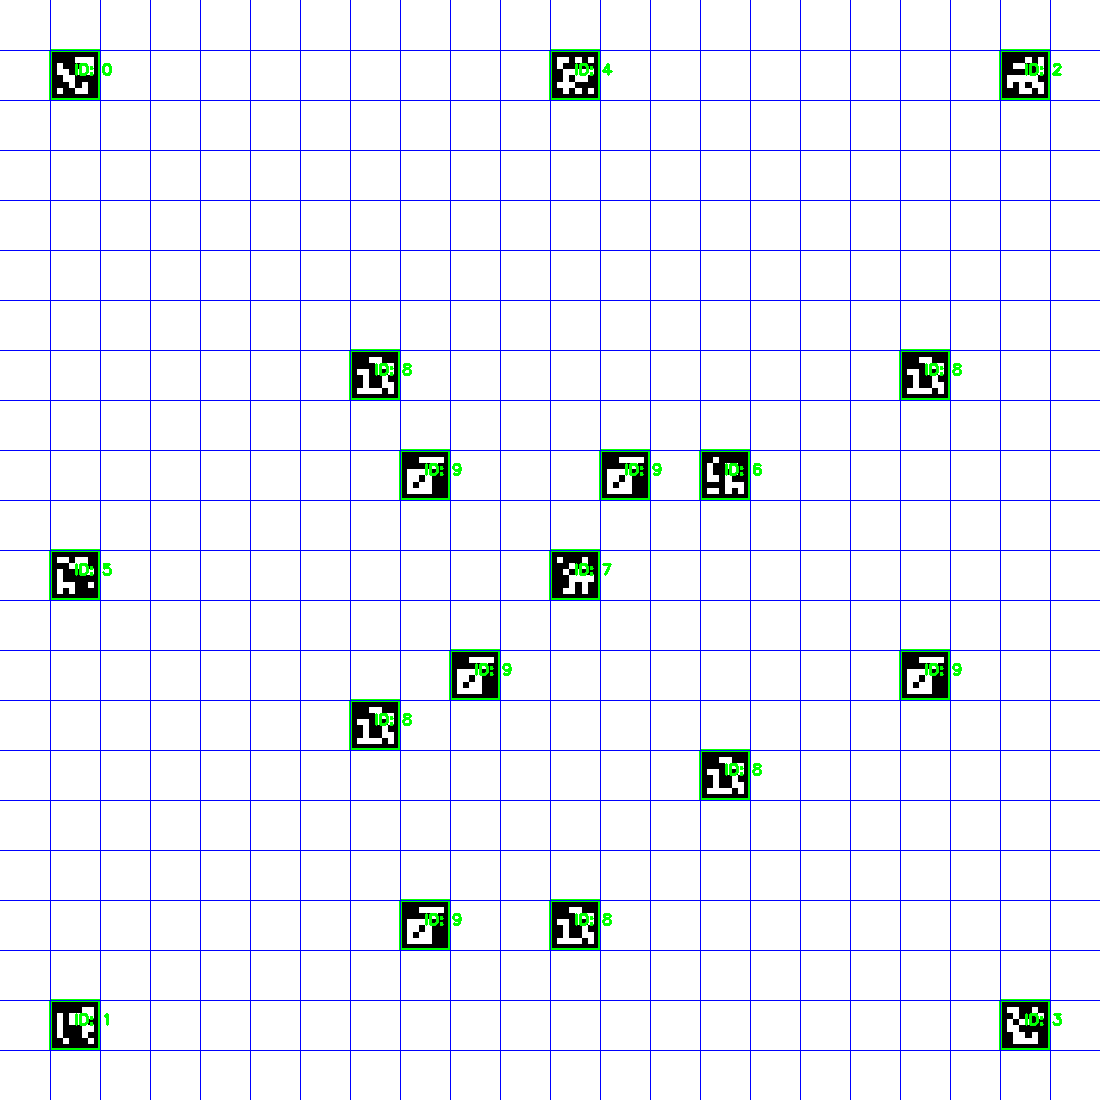
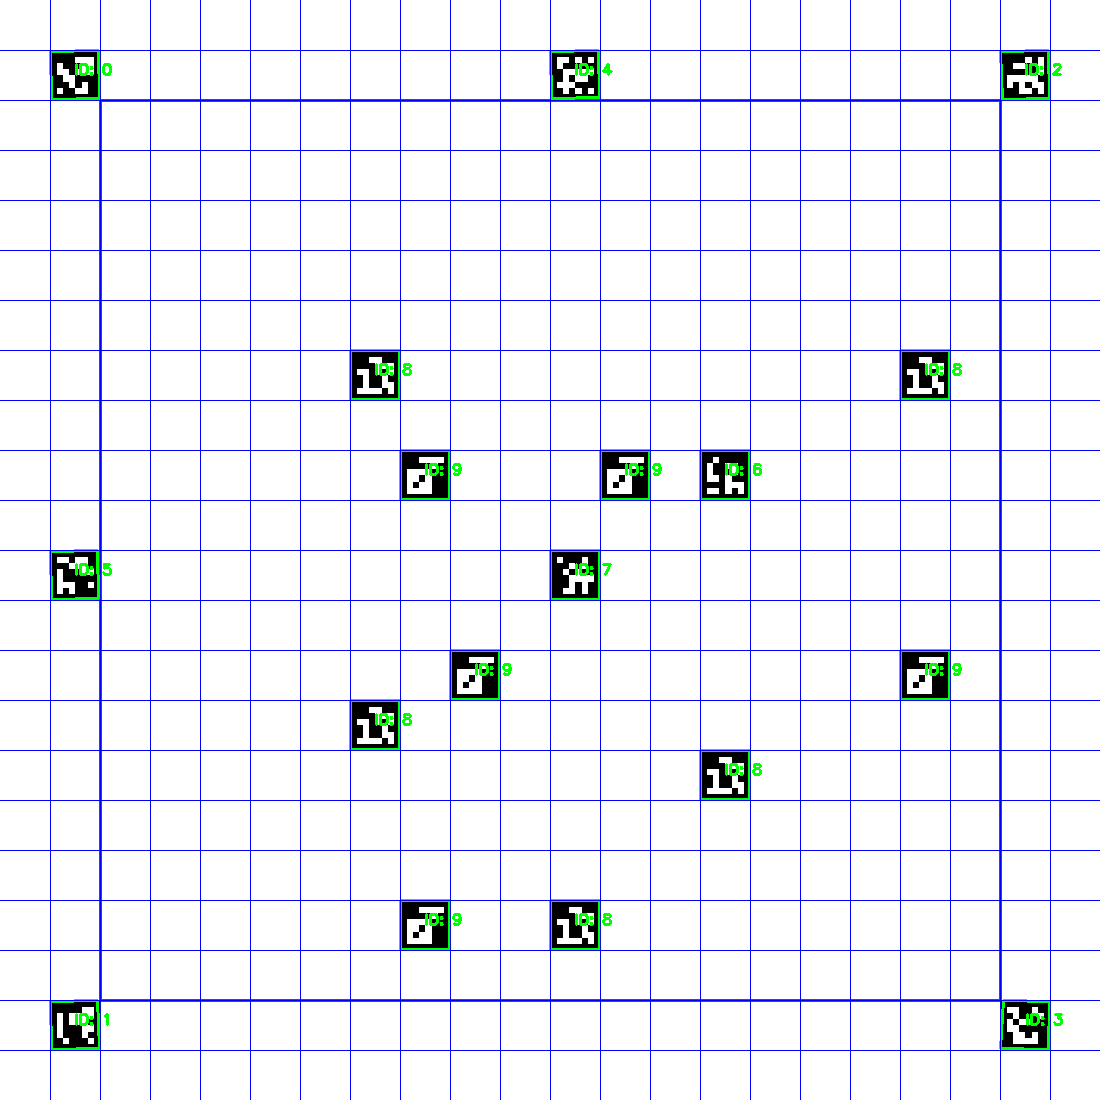
playable canvas created with boundary

Changed region(s): [[0.8964, 0.8964, 0.9273, 0.9273], [0.4945, 0.0618, 0.5255, 0.0927], [0.0618, 0.4945, 0.0927, 0.5255]]

diff --git a/Board_Placement.py b/Board_Placement.py
@@ -1,17 +1,20 @@
 import cv2
 import numpy as np
 
+# Create an image to place ArUco markers
+aurco_size = 50 # also equals grid size in px
+no_of_grid = 22 # number of grids | 22 rows & 22 columns
+image_size = aurco_size * no_of_grid # horizintal length = vertical length = 50*22 = 1100 px
+
+canvas = np.ones((image_size, image_size, 3), dtype=np.uint8) * 255
+# canvas size of 1100*1100 px
+
+# Aruco marker generation
 def generate_aruco_image(marker_id, marker_size=50):
     aruco_dict = cv2.aruco.Dictionary_get(cv2.aruco.DICT_6X6_250)
     marker_image = cv2.aruco.drawMarker(aruco_dict, marker_id, marker_size)
     marker_image_bgr = cv2.cvtColor(marker_image, cv2.COLOR_GRAY2BGR)
     return marker_image_bgr
-
-# Create an image to place ArUco markers
-aurco_size = 50 #also equals grid size
-no_of_grid = 22
-image_size = aurco_size * no_of_grid
-canvas = np.ones((image_size, image_size, 3), dtype=np.uint8) * 255
 
 # Positions for markers 0-3 from top-left to bottom-right corners and waste collection 4 & 5
 positions = {
@@ -29,6 +32,7 @@ for marker_id, position in positions.items():
     x, y = position
     canvas[y:y + 50, x:x + 50] = marker
 
+# definings markder Ids, and position
 positions_bot_waste_y = {
     6: [(14*aurco_size, 9*aurco_size)], #bot 1
     7: [(11*aurco_size, 11*aurco_size)], #bot 2
@@ -48,12 +52,36 @@ positions_bot_waste_y = {
         ],
 }
 
-# Generate markers with IDs 6 and 9 and place them in playable grid
+# Generate markers with IDs 6 - 9 and place them in playable grid
 for marker_id, positions_list in positions_bot_waste_y.items():
     for position in positions_list:
         marker = generate_aruco_image(marker_id)
         x, y = position
         canvas[y:y + aurco_size, x:x + aurco_size] = marker
+
+
+# Defining Playabe gird
+# Define the start and end points of the line as tuples
+point1 = (100, 100)
+point2 = (image_size-100, 100)
+point3 = (100, image_size-100)
+point4 = (image_size-100, image_size-100)
+
+# Define the color of the line (BGR format)
+color = (0, 0, 255)  # Red in BGR
+
+# Specify the thickness of the line
+thickness = 2
+
+# Draw the line on the image
+cv2.line(canvas, point1, point2, color, thickness)
+cv2.line(canvas, point1, point3, color, thickness)
+cv2.line(canvas, point2, point4, color, thickness)
+cv2.line(canvas, point3, point4, color, thickness)
+
+# defining new playabe canvas
+playabe_canvas =  np.ones((image_size, image_size, 3), dtype=np.uint8) * 255
+
 
 # Display the image with ArUco markers
 cv2.imshow("ArUco Markers", canvas)

diff --git a/Grid.py b/Grid.py
@@ -41,16 +41,16 @@ def generate_matrix_from_image(frame):
         list_matrix = grid_matrix.tolist()
     return list_matrix,orientation
 
-# vc = cv2.VideoCapture(0)
-# while True:
-#     _,frame = vc.read()
-#     matrix, orientation = generate_matrix_from_image(frame)
-#     if orientation != []:
-#         print(orientation)
-#         cv2.putText(frame, f"ID: {orientation[0]}", (50,50), cv2.FONT_HERSHEY_SIMPLEX, 0.5, (0, 0, 0), 2)
-#     cv2.imshow('Frame',frame)
-#     key = cv2.waitKey(1) & 0xFF
-# 	# if the `q` key was pressed, break from the loop
-#     if key == ord("q"):
-#         break
-# cv2.destroyAllWindows()
+vc = cv2.VideoCapture(0)
+while True:
+    _,frame = vc.read()
+    matrix, orientation = generate_matrix_from_image(frame)
+    if orientation != []:
+        print(orientation)
+        cv2.putText(frame, f"ID: {orientation[0]}", (50,50), cv2.FONT_HERSHEY_SIMPLEX, 0.5, (0, 0, 0), 2)
+    cv2.imshow('Frame',frame)
+    key = cv2.waitKey(1) & 0xFF
+	# if the `q` key was pressed, break from the loop
+    if key == ord("q"):
+        break
+cv2.destroyAllWindows()
